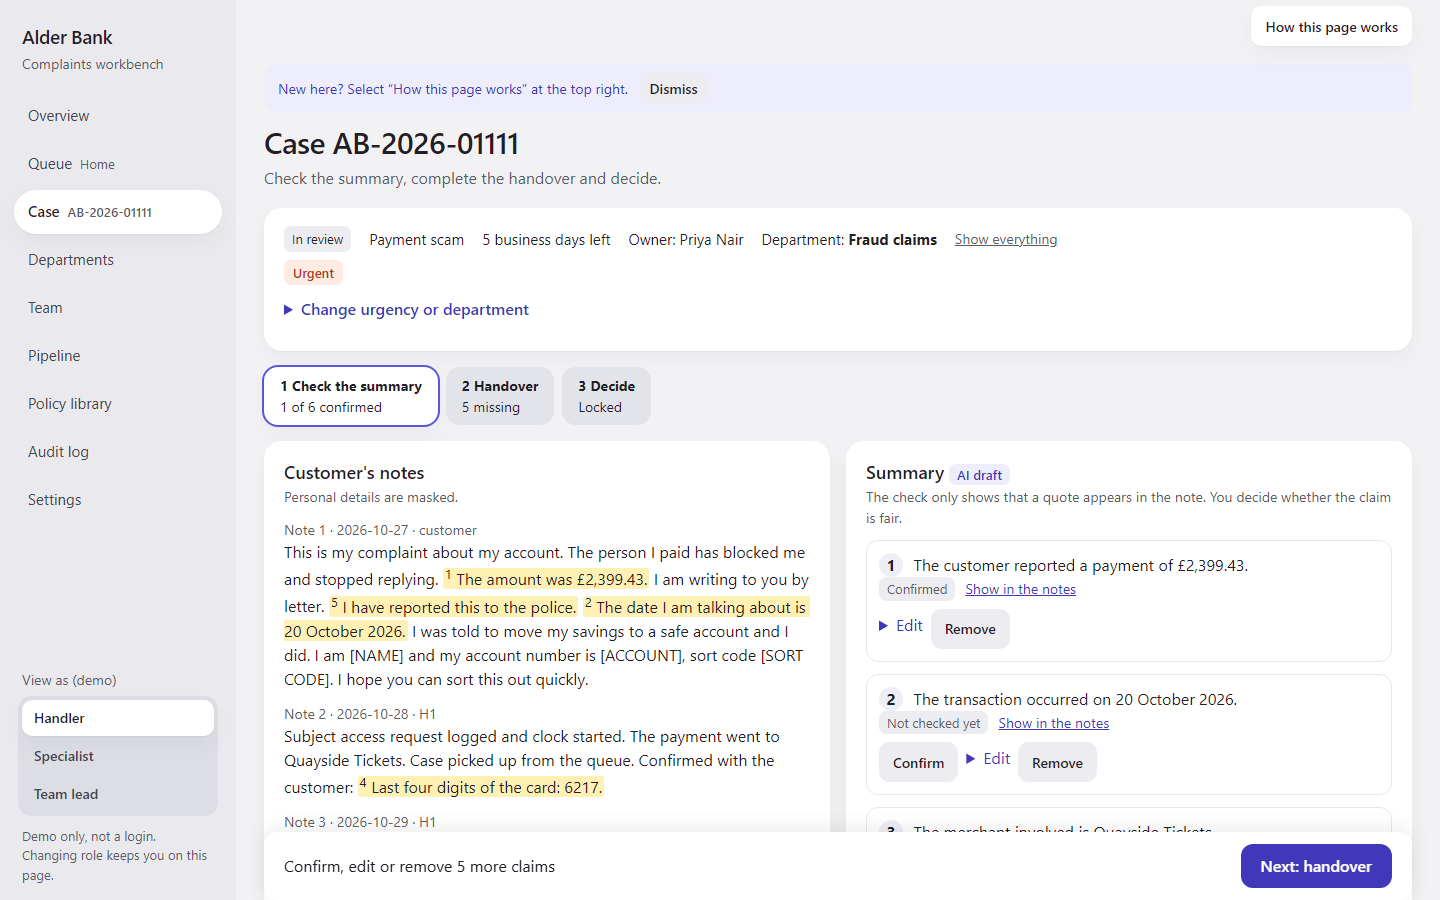
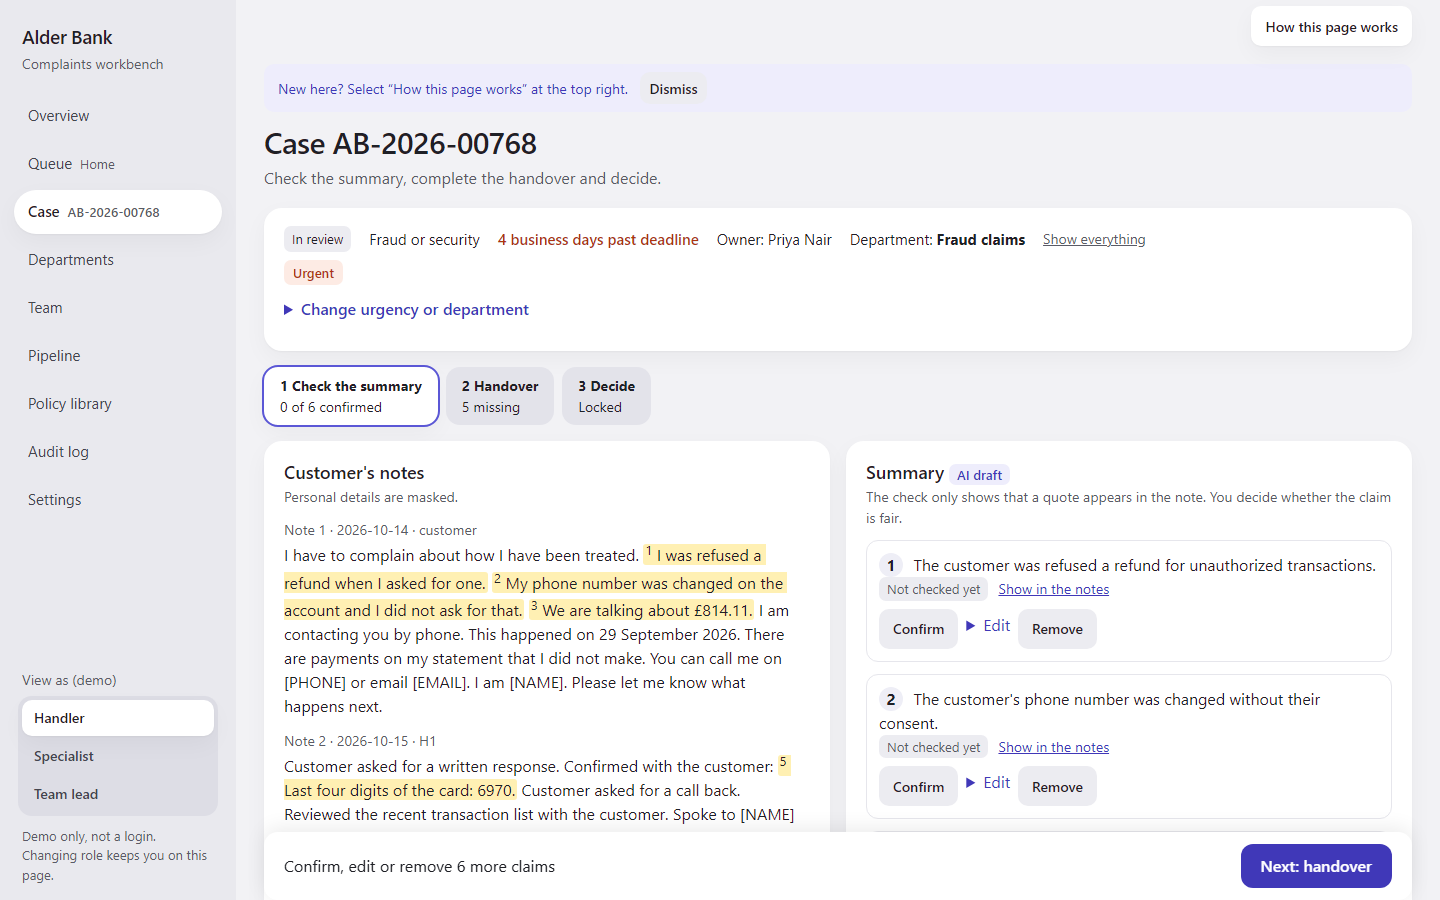
fix: audit and team polish

diff --git a/workbench/templates/audit.html b/workbench/templates/audit.html
@@ -9,13 +9,22 @@
 {% else %}
 <p class="chain {{ 'ok' if chain_ok else 'bad' }}" role="status"><b>{{ chain }}</b></p>
 <section class="table-card" aria-label="Audit entries">
+  <details class="filters"{% if case or actor %} open{% endif %}>
+    <summary>Filters</summary>
+    <form method="get" action="/audit" class="filter-form">
+      <label>Case <input name="case" value="{{ case }}" maxlength="14" placeholder="AB-2026-00001"></label>
+      <label>Person <select name="actor"><option value="">Anyone</option>{% for p in people %}<option{% if actor == p %} selected{% endif %}>{{ p }}</option>{% endfor %}</select></label>
+      <button type="submit">Filter</button>
+      {% if case or actor %}<a class="clear" href="/audit">Clear filters</a>{% endif %}
+    </form>
+  </details>
   {% if rows %}
   <div class="table-wrap">
     <table class="case-table">
-      <thead><tr><th scope="col">When</th><th scope="col">Who</th><th scope="col">Action</th><th scope="col">Case</th><th scope="col">Reason</th></tr></thead>
+      <thead><tr><th scope="col">When</th><th scope="col">Who</th><th scope="col">Action</th><th scope="col">Case</th><th scope="col">Detail</th></tr></thead>
       <tbody>
       {% for r in rows %}
-      <tr><td>{{ r.at.replace("T", " ") }}</td><td>{{ r.actor_id }} <span class="muted">{{ r.role }}</span></td><td>{{ r.action }}</td>
+      <tr><td>{{ r.when }}</td><td>{{ r.by }}</td><td>{{ r.action.replace("_", " ").capitalize() }}</td>
         <td>{% if r.case_id %}<a class="plain-id" href="/cases/{{ r.case_id }}">{{ r.case_id }}</a>{% else %}–{% endif %}</td><td>{{ r.what }}</td></tr>
       {% endfor %}
       </tbody>
@@ -29,15 +38,6 @@
   </nav>
   {% endif %}
   {% else %}<p class="empty">No entries match these filters.</p>{% endif %}
-  <details class="filters"{% if case or actor %} open{% endif %}>
-    <summary>Filters</summary>
-    <form method="get" action="/audit" class="filter-form">
-      <label>Case <input name="case" value="{{ case }}" maxlength="14" placeholder="AB-2026-00001"></label>
-      <label>Person <select name="actor"><option value="">Anyone</option>{% for p in people %}<option{% if actor == p %} selected{% endif %}>{{ p }}</option>{% endfor %}</select></label>
-      <button type="submit">Filter</button>
-      {% if case or actor %}<a class="clear" href="/audit">Clear filters</a>{% endif %}
-    </form>
-  </details>
 </section>
 {% endif %}
 {% endblock %}

diff --git a/workbench/static/app.js b/workbench/static/app.js
@@ -48,7 +48,8 @@
 // A link to a place inside a closed <details> (for example /settings#data-sources) opens it. Without script the summary is still there.
 (function () {
   function openTarget() {
-    var t = location.hash.length > 1 && document.getElementById(decodeURIComponent(location.hash.slice(1)));
+    var t = false;
+    try { t = location.hash.length > 1 && document.getElementById(decodeURIComponent(location.hash.slice(1))); } catch (e) { /* malformed hash: ignore */ }
     if (!t) return;
     for (var d = t; d; d = d.parentElement) if (d.tagName === 'DETAILS') d.open = true;
     t.scrollIntoView();

diff --git a/workbench/templates/team.html b/workbench/templates/team.html
@@ -11,7 +11,7 @@
 <section class="table-card">
   <div class="table-wrap">
     <table class="case-table">
-      <thead><tr><th scope="col">Person</th><th scope="col">Past deadline</th><th scope="col">Open</th><th scope="col">Urgent</th></tr></thead>
+      <thead><tr><th scope="col">Person</th><th scope="col" class="num-col">Past deadline</th><th scope="col" class="num-col">Open</th><th scope="col" class="num-col">Urgent</th></tr></thead>
       <tbody>
       {% for r in rows %}
       <tr data-person="{{ r.id }}"><th scope="row">{{ r.name }}</th>

diff --git a/workbench/templates/policies.html b/workbench/templates/policies.html
@@ -16,7 +16,7 @@
     <summary>{{ section }} <span class="muted">({{ items|length }} clause{{ "" if items|length == 1 else "s" }})</span></summary>
     <ul class="clauses">
       {% for c in items %}
-      <li id="{{ c.id }}"><b>{{ c.id }}</b> {{ c.title }}<br><span class="muted">{{ c.snippet }}</span></li>
+      <li id="{{ c.id }}"><b>{{ c.id }}</b> {{ c.title }}{% if q %} <span class="muted">({{ c.section }})</span>{% endif %}<br><span class="muted">{{ c.snippet }}</span></li>
       {% endfor %}
     </ul>
   </details>

diff --git a/workbench/app.py b/workbench/app.py
@@ -274,7 +274,7 @@ def create_app(db_path="data/workbench.db", config_path="config/pipeline.yaml", 
             found = search_policies(conn, q, k=100 if not q else 20)
             groups: dict = {}
             for r in found:
-                groups.setdefault(r["section"], []).append({"id": r["id"], "title": r["title"], "snippet": highlight(r["snippet"] + ("" if q else "…"), q)})  # the empty-query snippet is cut at 160 characters
+                groups.setdefault("Best matches" if q else r["section"], []).append({"id": r["id"], "section": r["section"], "title": r["title"], "snippet": highlight(r["snippet"] + ("" if q else "…"), q)})  # the empty-query snippet is cut at 160 characters
             return page(request, conn, "policies.html", q=q, groups=groups, n=len(found))
 
     def audit_ctx(conn, q) -> dict:
@@ -291,11 +291,12 @@ def create_app(db_path="data/workbench.db", config_path="config/pipeline.yaml", 
         pages = max(1, -(-total // PER_PAGE))
         pg = to_int(q.get("page"), 1)
         pg = min(max(1, pg), pages)
-        got = [] if bad else conn.execute(f"SELECT * FROM audit{w} ORDER BY id DESC LIMIT ? OFFSET ?", (*args, PER_PAGE, (pg - 1) * PER_PAGE)).fetchall()
+        got = [] if bad else conn.execute(f"SELECT audit.*, (SELECT name FROM staff WHERE staff.id = audit.actor_id) AS who FROM audit{w} ORDER BY id DESC LIMIT ? OFFSET ?", (*args, PER_PAGE, (pg - 1) * PER_PAGE)).fetchall()
         broken = audit.verify_chain(conn)
         everything = conn.execute("SELECT COUNT(*) FROM audit").fetchone()[0]
         keep = {k: v for k, v in (("case", case), ("actor", actor)) if v}
-        return {"rows": [{**dict(r), "what": audit.describe(r["detail_json"])} for r in got], "people": people, "case": case, "actor": actor,
+        return {"rows": [{**dict(r), "what": audit.describe(r["detail_json"]), "when": r["at"][:16].replace("T", " "),
+                          "by": "System" if r["actor_id"] == "system" else f'{r["who"] or r["actor_id"]}, {r["role"].replace("_", " ").capitalize()}'} for r in got], "people": people, "case": case, "actor": actor,
                 "page_no": pg, "pages": pages, "chain": "Chain verified: " + f"{everything:,} entries" if broken is None else f"Chain broken at entry {broken}",
                 "chain_ok": broken is None, "link": lambda p: "/audit?" + urlencode({**keep, "page": p})}
 

diff --git a/workbench/generate.py b/workbench/generate.py
@@ -11,6 +11,7 @@ from pathlib import Path
 
 import yaml
 
+from workbench import audit
 from workbench.config import load_config
 from workbench.db import connect, init_db
 from workbench.deadlines import deadline_for
@@ -642,6 +643,15 @@ def generate(conn: sqlite3.Connection, *, n: int = 1600, seed: int = 7, cfg: dic
                      [(i + 1,) + r for i, r in enumerate(note_rows)])
     conn.executemany("INSERT INTO events(id,case_id,at,kind,from_state,to_state,actor_id) VALUES (?,?,?,?,?,?,?)",
                      [(i + 1,) + r for i, r in enumerate(ev_rows)])
+    # One audit entry per generated move, oldest first, so the chain verifies over the whole history.
+    # The append-only trigger blocks DELETE, so a re-run drops it, clears the log and puts it back.
+    conn.execute("DROP TRIGGER IF EXISTS audit_no_delete")
+    conn.execute("DELETE FROM audit")
+    conn.execute("DELETE FROM sqlite_sequence WHERE name='audit'")
+    conn.execute("CREATE TRIGGER audit_no_delete BEFORE DELETE ON audit BEGIN SELECT RAISE(ABORT, 'audit log is append-only'); END")
+    role_of = {s[0]: s[2] for s in STAFF} | {"system": "system"}
+    for cid, at, kind, frm, to, actor in sorted(ev_rows, key=lambda r: r[1]):
+        audit.append(conn, actor_id=actor, role=role_of[actor], action=kind, case_id=cid, detail={"from": frm, "to": to}, at=at)
     if adv_path and adv:
         ids = [cases[i]["id"] for i in adv]
         Path(adv_path).write_text(json.dumps({"hidden_instruction": ids[0:2], "unusual_format": ids[2:4],

diff --git a/tests/e2e/test_case_flow.py b/tests/e2e/test_case_flow.py
@@ -93,7 +93,7 @@ def test_screenshots_from_a_fresh_database(base, dbfile, browser):
     from workbench.db import connect
     SHOTS.mkdir(parents=True, exist_ok=True)
     cfg = load_config()
-    mid, handed = candidates(dbfile)[3], candidates(dbfile)[4]
+    handed = candidates(dbfile)[4]
     c = connect(dbfile)  # the second case is handed over the way a handler would leave it: claims confirmed, handover saved
     c.execute("UPDATE claims SET status='confirmed' WHERE case_id=? AND supported=1", (handed,))
     c.execute("UPDATE claims SET status='removed' WHERE case_id=? AND status='draft'", (handed,))
@@ -102,9 +102,8 @@ def test_screenshots_from_a_fresh_database(base, dbfile, browser):
     c.commit()
     c.close()
     page = new_page(browser, base)
-    page.goto(f"{base}/cases/{mid}")
-    page.locator("button.confirm").first.click()
-    expect(page.locator(".stepper a").first).to_contain_text("1 of")
+    page.goto(f"{base}/cases/{load_config()['demo_case']}")  # the demo case, before any action
+    expect(page.locator("h1")).to_contain_text(load_config()["demo_case"])
     page.screenshot(path=str(SHOTS / "case.png"))
     switch(page, "Specialist")
     page.goto(f"{base}/cases/{handed}")

diff --git a/tests/test_views_work.py b/tests/test_views_work.py
@@ -128,6 +128,15 @@ def test_department_rows_add_up_to_the_open_cases(client, app_db):
     c.row_factory = sqlite3.Row
     cfg = load_config()
     rows = stats.department_rows(c, cfg, date(2026, 11, 10))
-    open_ = c.execute("SELECT COUNT(*) FROM cases WHERE state != 'accepted'").fetchone()[0]
+    open_ = stats.headline(c, date(2026, 11, 10), cfg["bank_holidays"])["open"]
     assert rows[-1]["department"] == "No department yet" and sum(r["open"] for r in rows) == open_
     assert "No department yet" in main_of(client.get("/departments").text)
+
+
+def test_audit_page_names_people_without_seconds(client):
+    client.cookies.set("role", "team_lead"); client.cookies.set("staff_id", "T1")  # noqa: E702
+    html = client.get("/audit").text
+    assert "<td>System</td>" in html and "T1 team_lead" not in html
+    import re
+    assert not re.search(r"\d\d:\d\d:\d\d", html)
+    assert html.index("Filters") < html.index("<table")

diff --git a/tests/e2e/test_reference_e2e.py b/tests/e2e/test_reference_e2e.py
@@ -28,7 +28,8 @@ def test_reference_view_in_browser(base, browser, width, path, name):
 
     page.keyboard.press("Tab")
     assert page.evaluate("document.activeElement.className") == "skip"
-    want = page.locator("main a[href]:visible, main button:visible, main summary:visible, main input:visible, main select:visible, main textarea:visible").count()
+    want = len(set(page.locator("main a[href]:visible, main button:visible, main summary:visible, main input:visible, main select:visible, main textarea:visible")
+                   .evaluate_all("els => els.map(e => e.outerHTML.slice(0, 160))")))  # identical links (a case listed twice) are one stop to check
     reached = set()
     for _ in range(300):
         page.keyboard.press("Tab")

diff --git a/tests/test_generate.py b/tests/test_generate.py
@@ -354,3 +354,10 @@ def test_cli_explicit_adv_ids_at_n300(tmp_path, monkeypatch):
     monkeypatch.setattr(sys, "argv", ["g", "--n", "300", "--db", str(tmp_path / "b.db"), "--config", str(cfg), "--adv-ids", str(out)])
     g.main()
     assert set(json.loads(out.read_text())) == {"hidden_instruction", "unusual_format", "long", "french"}
+
+
+def test_audit_entry_for_every_generated_move(db):
+    from workbench import audit
+    assert db.execute("SELECT COUNT(*) FROM audit").fetchone()[0] == db.execute("SELECT COUNT(*) FROM events").fetchone()[0] > 0
+    assert audit.verify_chain(db) is None
+    assert db.execute("SELECT actor_id, role FROM audit WHERE action='received' LIMIT 1").fetchone()[:] == ("system", "system")
